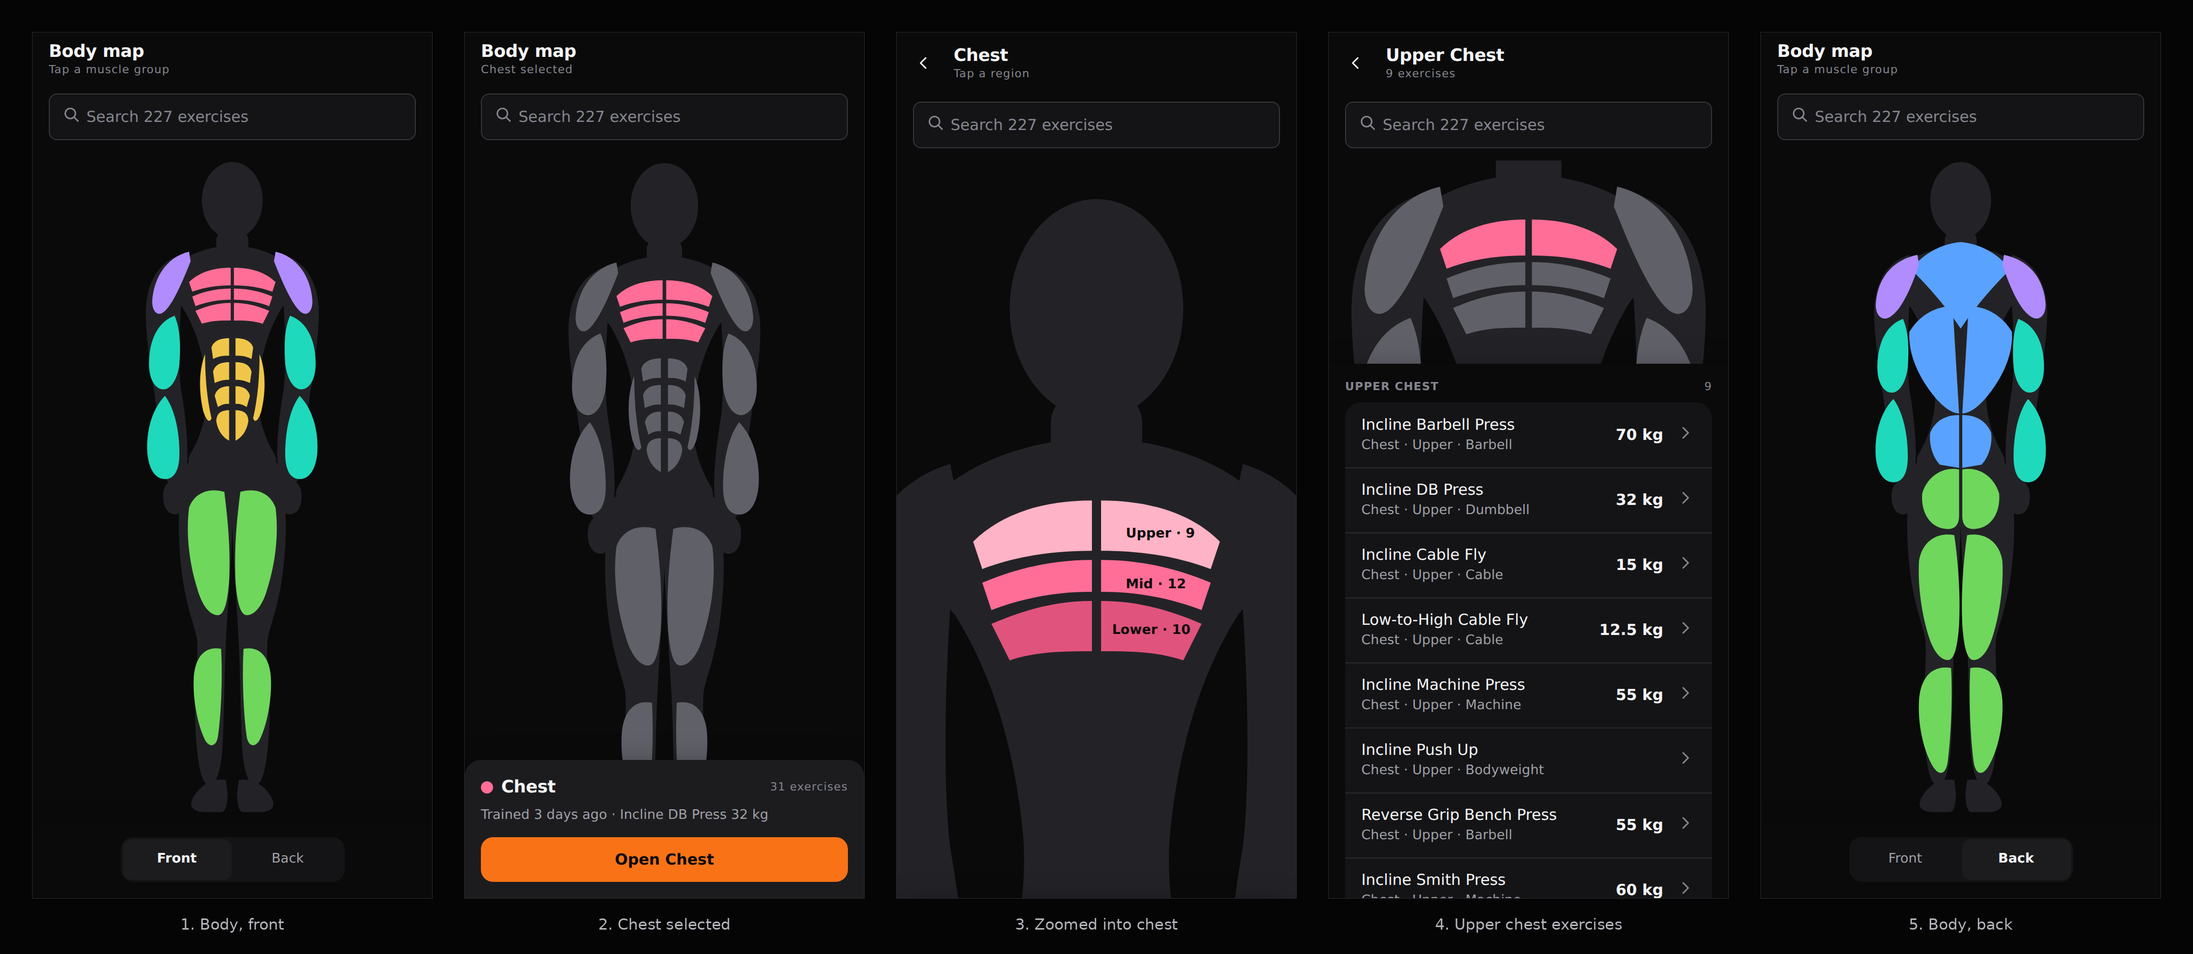
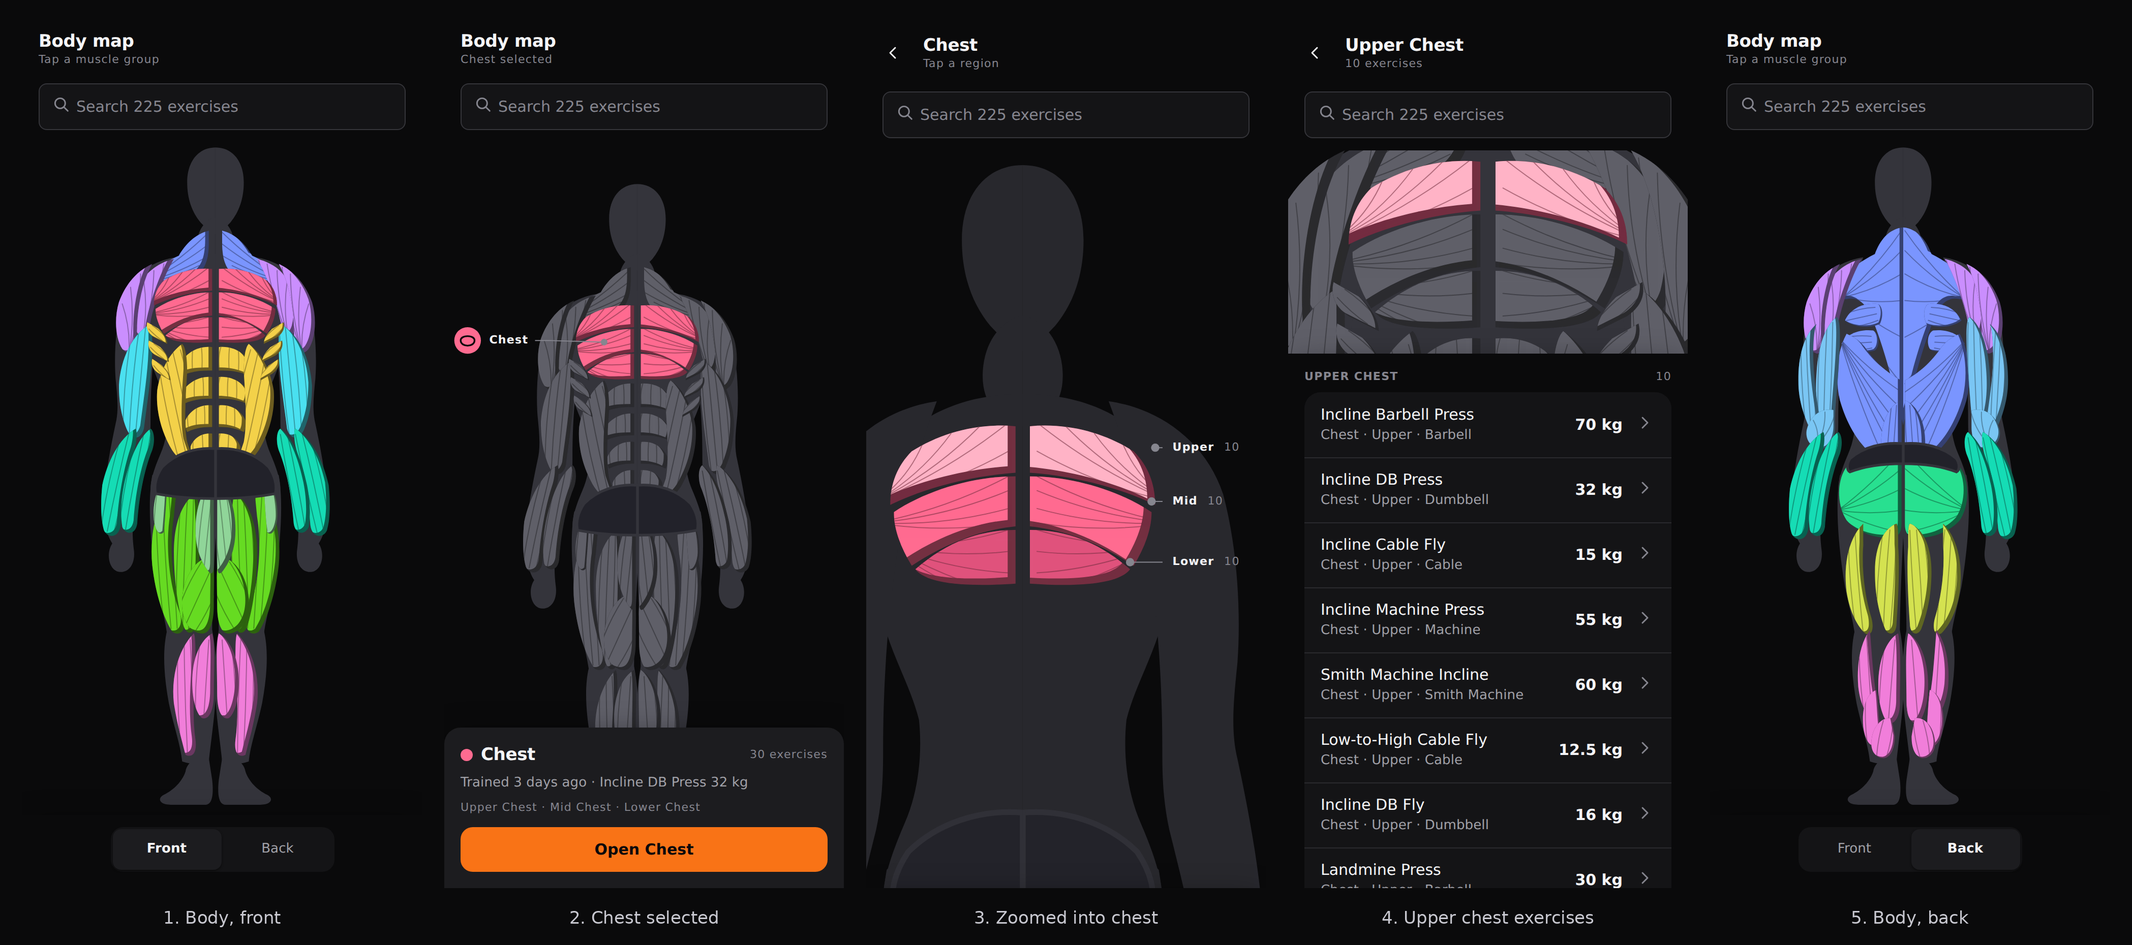
redesign: redraw body map as real anatomy
Ten refine cycles. Each muscle drawn twice, a dark ground in its own hue
plus the hue offset and clipped, so the residue is a rim lit from one
direction and the seam between two muscles is where their rims meet.
Fibres authored as direction rather than geometry. Twelve groups from the
app's own exercise table, twelve hues spent anatomically, lowest contrast
7.13:1. Zoom only for the five groups that have sub-regions.

Claude-Session: https://claude.ai/code/session_01YJKewqmQsqV5sHch9jXM4P

diff --git a/redesign/08-build/mockup-bodymap.html b/redesign/08-build/mockup-bodymap.html
@@ -87,6 +87,8 @@
 .map:not([data-zoom]):not([data-part]) .pec .mg__lit { fill: var(--anat-chest); }
 .map[data-selected]:not([data-zoom]) .mg--chest:not([data-on]) .pec .mg__lit { fill: var(--anat-muted); }
 .map[data-part="upper"] .pec:not([data-part="upper"]) .mg__lit { fill: var(--anat-muted); }
+.map[data-part="upper"] .pec:not([data-part="upper"]) .mg__gnd { fill: color-mix(in srgb, var(--anat-muted) 45%, #000); }
+.map[data-part="upper"] .pec:not([data-part="upper"]) .fib { stroke: color-mix(in srgb, var(--anat-muted) 45%, #000); }
 .pec .mg__lit { transition: fill var(--dur-slow) var(--ease); }
 .pec[data-part="mid"] .mg__lit { transition-delay: 100ms; }
 .pec[data-part="lower"] .mg__lit { transition-delay: 200ms; }
@@ -125,6 +127,7 @@
 
 /* The three part labels reuse the same convention, so zooming in
    introduces nothing new. */
+.map--strip .lab { opacity: 0 !important; }
 .zlabs { opacity: 0; transition: opacity var(--dur-slow) var(--ease); }
 .map[data-zoom] .zlabs { opacity: 1; transition-delay: var(--dur-slow); }
 .zlab__t { font-family: inherit; font-weight: var(--w-semibold); letter-spacing: var(--tr-11); fill: var(--text); dominant-baseline: middle; }
@@ -279,6 +282,7 @@
   /* One garment, both views: cut high on the flank so the lower and
      outer glute still reads on the back, low at the centre so the
      front is covered. */
+  var WAIST = 'M100 188 C112 187 124 190 132 197 C134 200 134 204 132 205 C122 201 111 200 100 200 Z';
   var SHORTS = 'M100 191 C112 190 124 194 132 202 C136 208 137 213 136 218 C126 220 114 221 100 221 Z';
 
   /* ---------------- FRONT ----------------
@@ -317,13 +321,13 @@
        armpit, and every fibre converging on the insertion. At rest
        the three read as one fan in one hue. */
     { g: 'chest', part: 'upper', cls: 'pec',
-      d: 'M102 83 C113 82 123 85 131 90 C135 94 137 99 137 105 C129 100 116 96 102 95 Z',
+      d: 'M102 83 C113 82 123 85 131 90 C135 94 137 99 137 105 C129 101 116 97 102 96 Z',
       fan: [141, 104, [[104, 82], [112, 83], [120, 85], [128, 88], [104, 90]]] },
     { g: 'chest', part: 'mid', cls: 'pec',
-      d: 'M102 98 C114 98 127 102 136 108 C136 113 134 118 131 122 C122 115 112 111 102 110 Z',
+      d: 'M102 97 C114 97 127 101 136 107 C136 112 134 117 131 122 C122 116 112 112 102 111 Z',
       fan: [141, 110, [[104, 97], [104, 101], [104, 106], [104, 110]]] },
     { g: 'chest', part: 'lower', cls: 'pec',
-      d: 'M102 113 C113 113 122 117 130 124 C126 129 115 131 102 130 Z',
+      d: 'M102 112 C113 112 122 116 130 123 C127 127 116 128 102 127 Z',
       fan: [138, 116, [[104, 112], [104, 118], [104, 124], [104, 130], [108, 132]]] },
 
     /* Abs: the rectus column split by the linea alba, three pairs of
@@ -332,22 +336,22 @@
        angling down and forward to the hip; and three finger-like
        serratus slips along the ribs under the armpit. The serratus is
        what makes the drawing read as anatomy. */
-    { g: 'abs', d: 'M104 136 C112 135 118 139 121 145 C121 148 121 150 120 152 C113 149 108 149 104 149 Z',
-      ax: [112, 135, 112, 153, 4, 14] },
-    { g: 'abs', d: 'M104 153 C111 152 117 156 120 162 C120 165 120 167 119 169 C112 166 108 166 104 166 Z',
-      ax: [111, 152, 111, 170, 4, 13] },
-    { g: 'abs', d: 'M104 170 C111 169 116 173 118 179 C118 182 118 184 117 186 C111 183 108 183 104 183 Z',
-      ax: [110, 169, 110, 187, 4, 12] },
-    { g: 'abs', d: 'M104 187 C110 186 114 190 115 194 C115 199 113 205 110 209 C107 211 104 210 104 206 Z',
-      ax: [109, 186, 108, 209, 3, 9] },
-    { g: 'abs', d: 'M122 132 C129 137 135 146 137 158 C138 170 134 183 128 192 C124 198 118 202 114 203 C115 198 117 193 119 187 C121 177 121 162 121 146 C121 138 121 134 122 132 Z',
-      ax: [130, 137, 116, 199, 4, 14] },
-    { g: 'abs', d: 'M141 117 L130 123 C131 126 135 126 138 124 C141 122 142 119 141 117 Z',
-      ax: [140, 119, 132, 124, 2, 4] },
-    { g: 'abs', d: 'M140 128 L129 134 C130 137 134 137 137 135 C140 133 141 130 140 128 Z',
-      ax: [139, 130, 131, 135, 2, 4] },
-    { g: 'abs', d: 'M138 139 L128 145 C129 148 132 148 135 146 C138 144 139 141 138 139 Z',
-      ax: [137, 141, 130, 146, 2, 4] },
+    { g: 'abs', d: 'M102 130 C111 129 118 134 121 140 C121 143 121 145 120 147 C113 144 108 144 102 144 Z',
+      ax: [111, 129, 111, 148, 4, 15] },
+    { g: 'abs', d: 'M102 148 C110 147 117 152 120 157 C120 160 120 162 119 164 C112 161 107 161 102 161 Z',
+      ax: [110, 147, 110, 165, 4, 14] },
+    { g: 'abs', d: 'M102 165 C110 164 116 169 118 174 C118 177 118 179 117 181 C111 178 106 178 102 178 Z',
+      ax: [109, 164, 109, 182, 4, 13] },
+    { g: 'abs', d: 'M102 182 C109 181 114 186 115 190 C115 195 113 200 110 203 C107 205 102 204 102 200 Z',
+      ax: [108, 181, 107, 203, 3, 10] },
+    { g: 'abs', d: 'M120 128 C127 133 133 143 135 156 C136 169 132 182 126 192 C122 198 116 202 112 203 C113 198 115 193 117 187 C119 177 118 160 117 145 C117 136 118 130 120 128 Z',
+      ax: [128, 133, 114, 200, 4, 14] },
+    { g: 'abs', sm: true, d: 'M141 115 C142 119 140 122 137 124 L129 128 C129 125 131 122 134 119 Z',
+      ax: [139, 118, 131, 125, 2, 3] },
+    { g: 'abs', sm: true, d: 'M140 126 C141 130 139 133 136 135 L128 139 C128 136 130 133 133 130 Z',
+      ax: [138, 129, 130, 136, 2, 3] },
+    { g: 'abs', sm: true, d: 'M138 137 C139 141 137 144 134 146 L127 150 C127 147 129 144 132 141 Z',
+      ax: [136, 140, 129, 147, 2, 3] },
 
     /* Quads: the vastus lateralis sweeping the whole outer thigh, the
        rectus femoris down the centre, the vastus medialis a teardrop
@@ -363,7 +367,7 @@
        and the tensor fasciae latae over the outer hip. */
     { g: 'adduc', d: 'M101 212 C108 215 112 226 112 240 C112 252 108 260 104 265 C102 267 101 266 101 260 Z',
       ax: [102, 216, 107, 264, 3, 8] },
-    { g: 'adduc', d: 'M129 208 C135 213 138 223 137 234 C136 241 133 244 131 241 C130 230 129 216 129 208 Z',
+    { g: 'adduc', sm: true, d: 'M129 208 C135 213 138 223 137 234 C136 241 133 244 131 241 C130 230 129 216 129 208 Z',
       ax: [131, 211, 134, 240, 2, 6] },
 
     /* Calves from the front: the tibialis anterior along the outer
@@ -384,13 +388,13 @@
        infraspinatus and teres pair on the scapula; the latissimus V,
        wide under the armpit and sweeping down and in to the lower
        back; and the erector spinae columns flanking the spine. */
-    { g: 'back', d: 'M100 58 C109 59 114 66 117 74 C125 78 134 84 141 93 C143 98 140 102 133 101 C126 99 119 101 115 108 C111 118 106 137 104 155 C103 165 101 171 100 177 Z',
+    { g: 'back', d: 'M100 58 C109 59 114 66 117 74 C125 78 134 84 141 93 C143 98 140 102 133 101 C127 100 122 104 119 112 C114 124 108 143 105 158 C103 167 101 172 100 177 Z',
       fan: [136, 100, [[101, 60], [101, 72], [101, 86], [101, 102], [101, 124], [101, 152], [101, 174]]] },
-    { g: 'back', d: 'M115 104 C124 103 132 107 135 114 C130 118 120 119 114 116 C112 112 112 106 115 104 Z',
+    { g: 'back', sm: true, d: 'M115 104 C124 103 132 107 135 114 C130 118 120 119 114 116 C112 112 112 106 115 104 Z',
       ax: [116, 110, 134, 114, 3, 8] },
-    { g: 'back', d: 'M118 120 C126 119 134 122 137 128 C133 132 124 134 117 132 C114 130 114 122 118 120 Z',
+    { g: 'back', sm: true, d: 'M118 120 C126 119 134 122 137 128 C133 132 124 134 117 132 C114 130 114 122 118 120 Z',
       ax: [119, 127, 136, 128, 3, 7] },
-    { g: 'back', d: 'M134 122 C140 133 141 149 138 162 C134 176 127 188 118 195 C112 200 106 203 101 204 L101 156 C108 152 116 144 122 134 C127 126 132 124 134 122 Z',
+    { g: 'back', d: 'M134 122 C140 133 141 149 138 162 C134 176 127 188 118 195 C112 200 106 203 101 204 L101 150 C109 146 117 139 123 130 C128 124 132 123 134 122 Z',
       fan: [138, 125, [[101, 202], [101, 191], [101, 179], [101, 167], [101, 157], [111, 198]]] },
     { g: 'back', d: 'M101 162 C107 164 112 172 113 183 C114 194 112 203 109 208 C106 211 101 210 101 205 Z',
       ax: [104, 165, 107, 208, 3, 6] },
@@ -407,7 +411,7 @@
       ax: [144, 115, 146, 175, 4, 10] },
     { g: 'triceps', d: 'M152 116 C160 123 163 136 163 150 C163 161 160 170 157 177 C155 182 149 182 150 174 C152 161 154 147 154 135 C154 123 153 118 152 116 Z',
       ax: [157, 120, 154, 178, 4, 9] },
-    { g: 'triceps', d: 'M141 168 C149 166 156 171 158 180 C159 187 154 191 149 191 C144 191 141 185 141 178 Z',
+    { g: 'triceps', sm: true, d: 'M141 168 C149 166 156 171 158 180 C159 187 154 191 149 191 C144 191 141 185 141 178 Z',
       fan: [152, 189, [[141, 170], [147, 169], [154, 174]]] },
 
     /* Forearm extensors. */
@@ -418,14 +422,14 @@
 
     /* Glutes: a rounded mass, wider than it is tall, fibres running
        down and out from the sacrum to the femur. */
-    { g: 'glutes', d: 'M101 184 C113 182 126 187 134 196 C140 204 140 219 134 228 C127 237 114 242 105 240 C102 239 101 236 101 232 Z',
-      fan: [139, 222, [[101, 186], [101, 197], [101, 209], [101, 222], [103, 236]]] },
+    { g: 'glutes', d: 'M101 190 C113 188 126 193 134 202 C140 210 140 225 134 234 C127 242 114 246 105 244 C102 243 101 240 101 236 Z',
+      fan: [139, 228, [[101, 192], [101, 203], [101, 215], [101, 228], [103, 241]]] },
 
     /* Hamstrings: the outer and the inner group, hip to knee. */
-    { g: 'hams', d: 'M124 230 C133 239 136 256 134 273 C132 287 127 296 123 300 C120 302 117 299 119 291 C123 277 125 259 124 243 C124 235 124 231 124 230 Z',
-      ax: [127, 234, 122, 300, 4, 12] },
-    { g: 'hams', d: 'M104 230 C112 233 117 245 117 261 C117 277 114 289 111 297 C109 302 104 301 104 294 C103 279 102 258 103 245 C103 237 103 231 104 230 Z',
-      ax: [106, 234, 110, 300, 4, 12] },
+    { g: 'hams', d: 'M124 236 C133 245 136 261 134 277 C132 290 127 298 123 302 C120 304 117 301 119 293 C123 280 125 264 124 249 C124 241 124 237 124 236 Z',
+      ax: [127, 240, 122, 302, 4, 12] },
+    { g: 'hams', d: 'M104 236 C112 239 117 250 117 265 C117 280 114 291 111 299 C109 304 104 303 104 296 C103 282 102 262 103 250 C103 242 103 237 104 236 Z',
+      ax: [106, 240, 110, 302, 4, 12] },
 
     /* Calves: the two heads of the gastrocnemius forming the diamond,
        the soleus below them on the outside, and the Achilles they all
@@ -434,9 +438,9 @@
       ax: [105, 306, 109, 356, 3, 11] },
     { g: 'calves', d: 'M120 300 C126 308 128 321 127 334 C126 343 123 350 120 351 C117 352 115 347 116 340 C118 329 119 312 120 300 Z',
       ax: [122, 304, 119, 350, 3, 9] },
-    { g: 'calves', d: 'M116 336 C122 338 125 347 124 358 C123 366 120 370 117 370 C114 370 113 366 114 359 C115 350 115 342 116 336 Z',
+    { g: 'calves', sm: true, d: 'M116 336 C122 338 125 347 124 358 C123 366 120 370 117 370 C114 370 113 366 114 359 C115 350 115 342 116 336 Z',
       ax: [119, 339, 118, 369, 2, 7] },
-    { g: 'calves', d: 'M107 353 C112 352 118 357 119 366 C120 373 116 377 112 377 C108 377 105 372 105 364 Z',
+    { g: 'calves', sm: true, d: 'M107 353 C112 352 118 357 119 366 C120 373 116 377 112 377 C108 377 105 372 105 364 Z',
       ax: [109, 355, 113, 376, 2, 6] }
   ];
 
@@ -519,7 +523,10 @@
       ['abs',       100, 138, 32, 58],
       ['quads',     114, 220, 30, 54], ['quads', 102, 262, 30, 44],
       ['adduc',     100, 216, 29, 44],
-      ['calves',    100, 304, 30, 72]
+      ['calves',    100, 304, 30, 72],
+      /* the upper trapezius is the only Back on the front view, so its
+         target is declared last and takes the neck-to-shoulder slope */
+      ['back',      104,  52, 31, 34]
     ],
     back: [
       ['back',      100,  58, 38, 148],
@@ -601,12 +608,13 @@
     var cp = el('clipPath', { id: clip });
     cp.appendChild(el('path', { d: m.d }));
     defs.appendChild(cp);
-    [[null, -2.2], [MIRROR, 2.2]].forEach(function (s) {
+    var off = m.sm ? 0.9 : 2.2, offY = m.sm ? 0.8 : 1.8;
+    [[null, -off], [MIRROR, off]].forEach(function (s) {
       var side = el('g', { transform: s[0] });
       side.appendChild(el('path', { d: m.d, class: 'mg__gnd' }));
       var inner = el('g', { 'clip-path': 'url(#' + clip + ')' });
       inner.appendChild(el('path', { d: m.d, class: 'mg__lit',
-        transform: 'translate(' + s[1] + ' -1.8)' }));
+        transform: 'translate(' + s[1] + ' ' + (-offY) + ')' }));
       fibres(m).forEach(function (d) { inner.appendChild(el('path', { d: d, class: 'fib' })); });
       side.appendChild(inner);
       var wrap = el('g', { class: cls });
@@ -661,7 +669,7 @@
   buildView(document.getElementById('f-groups'), FRONT, HITS.front);
   buildView(document.getElementById('b-groups'), BACK, HITS.back);
   plain(document.getElementById('f-wear'), [SHORTS], 'shorts');
-  plain(document.getElementById('b-wear'), [SHORTS], 'shorts');
+  plain(document.getElementById('b-wear'), [WAIST], 'shorts');
 
   /* Labels: disc, pictogram, name, and a hairline leader to a dot on
      the muscle. Left-hand labels read disc-then-name toward the body;
@@ -788,33 +796,33 @@
      frame, leaving the right gutter for the part labels. */
   function camera() {
     return S.stage === 'zoom'
-      ? 'translate(100 209) scale(2.6) translate(-100 -109)'
+      ? 'translate(' + ZCAM.x + ' ' + ZCAM.y + ') scale(' + ZCAM.k + ') translate(-' + ZCAM.ox + ' -' + ZCAM.oy + ')'
       : 'translate(0 0) scale(1)';
   }
 
-  var PART_N = { upper: 10, mid: 10, lower: 10 };
+  /* The zoomed camera and the three part labels are one piece of
+     geometry: the camera is fixed, so the point each leader lands on
+     is the band's own outer edge put through the same transform. That
+     keeps the three labels in a true column instead of wherever a
+     measured bounding box happens to fall. */
+  var ZCAM = { x: 78, y: 209, k: 2.15, ox: 100, oy: 109 };
+  var ZPART = [['Upper', 10, 137, 89], ['Mid', 10, 136, 104], ['Lower', 10, 130, 121]];
+  var ZCOL = 168;
+
   function placeZoomLabels() {
     zlabs.textContent = '';
     if (S.stage !== 'zoom') return;
-    var box = svg.getBoundingClientRect(), vb = svg.viewBox.baseVal;
-    var s = Math.min(box.width / vb.width, box.height / vb.height);
-    var ox = box.width / 2 - (vb.x + vb.width / 2) * s;
-    var oy = box.height / 2 - (vb.y + vb.height / 2) * s;
-    ['upper', 'mid', 'lower'].forEach(function (part) {
-      var band = document.querySelector('#view-front .pec[data-part="' + part + '"]');
-      if (!band) return;
-      var r = band.getBoundingClientRect();
-      var ax = ((r.left + r.width * 0.93) - box.left - ox) / s;
-      var ay = ((r.top + r.height / 2) - box.top - oy) / s;
-      var col = Math.max(vb.x + vb.width - 64, ax + 16);
+    ZPART.forEach(function (P) {
+      var ax = ZCAM.x + (P[2] - ZCAM.ox) * ZCAM.k;
+      var ay = ZCAM.y + (P[3] - ZCAM.oy) * ZCAM.k;
       var g = el('g', { class: 'lab', style: 'opacity:1' });
       g.appendChild(el('path', { class: 'lab__line',
-        d: 'M' + n2(ax) + ' ' + n2(ay) + ' L' + n2(col - 6) + ' ' + n2(ay) }));
+        d: 'M' + n2(ax) + ' ' + n2(ay) + ' L' + n2(ZCOL - 6) + ' ' + n2(ay) }));
       g.appendChild(el('circle', { class: 'lab__dot', cx: n2(ax), cy: n2(ay), r: 2.5 }));
-      var t = el('text', { class: 'zlab__t', x: n2(col), y: n2(ay), 'text-anchor': 'start' });
-      t.textContent = part.charAt(0).toUpperCase() + part.slice(1);
+      var t = el('text', { class: 'zlab__t', x: ZCOL, y: n2(ay), 'text-anchor': 'start' });
+      t.textContent = P[0];
       var n = el('tspan', { class: 'zlab__n', dx: 6 });
-      n.textContent = PART_N[part];
+      n.textContent = P[1];
       t.appendChild(n);
       g.appendChild(t);
       zlabs.appendChild(g);
@@ -860,7 +868,7 @@
     list.hidden = S.stage !== 'list';
     map.classList.toggle('map--strip', S.stage === 'list');
     if (S.stage === 'list') map.setAttribute('data-part', 'upper'); else map.removeAttribute('data-part');
-    svg.setAttribute('viewBox', S.stage === 'list' ? '58 76 84 68' : '-16 8 240 402');
+    svg.setAttribute('viewBox', S.stage === 'list' ? '62 80 76 54' : '-16 8 240 402');
     if (S.stage === 'list') renderList();
     requestAnimationFrame(function () { sizeType(); placeZoomLabels(); });
   }

diff --git a/redesign/08-build/tokens.css b/redesign/08-build/tokens.css
@@ -48,7 +48,16 @@
   --surface-raised: #1C1C1F;/* sheet, popover, L* 10.6 */
   --surface-sunken: #050506;/* inset wells, keypad ground */
   --hairline: #2A2A2E;     /* separators, 1px */
-  --border: #35353A;       /* control borders, 3:1 against surface */
+  /* Control borders. The shipped value was #35353A, which the pair table
+     recorded as 3.06:1 against --surface; measured, it is 1.51 -- and
+     1.39 against a sheet. Every control whose only boundary is that
+     border (the text input, the composer, the switch's off track, the
+     checkbox mark, the set mark, the value targets) therefore failed
+     WCAG 1.4.11 in the primary theme, while the light theme passed it.
+     #6A6A74 clears 3:1 on all four grounds: 3.81 sunken, 3.70 bg,
+     3.44 surface, 3.18 raised, and still carries --text at 4.91 for the
+     one control that uses it as a pressed fill. */
+  --border: #6A6A74;
 
   /* ---- Fills. The three tokens that make the system theme-reversible.
      In dark, "a fill that stands out on a card" and "a surface that sits
@@ -218,9 +227,10 @@
   --border: #767681;       /* 3.30 sunken, 3.71 bg, 4.12 surface, 4.49 raised */
 
   /* Fills run the other way from elevation here: down, not up. */
-  --fill: #DDDDE8;         /* 4.12 L* below bg, 8.21 below surface */
+  --fill: #D8D8E5;         /* 5.84 L* below bg, 9.93 below surface;
+                              dark's fill sits 7.62 above bg, 4.00 above surface */
   --fill-press: #CFCFDD;
-  --track: #DDDDE8;
+  --track: #D8D8E5;
 
   --text: #0A0A0B;
   --text-secondary: #55555E;
@@ -231,24 +241,26 @@
   /* The accent as ink is a step deeper than the shipped #B03A0A so it
      still clears 4.5 on its own tinted ground. */
   --accent: #C2410C;
-  --accent-text: #A63708;
+  --accent-text: #9E3408;
   --accent-deep: #9A3412;
-  --accent-quiet: #FBD7C4;
+  --accent-quiet: #FAD1B9;
 
-  /* The quiet tints sit at L* 88.5, four steps below the page ground, so
+  /* The quiet tints sit at L* 85.5-86.5, six L* below the page ground -- the same tone step dark's quiet tints take above their ground (6.6 to 11.1), so
      a banner, a selected row or a chat bubble is a surface rather than a
      rumour. The shipped tints sat at 94-96, level with the ground: an
-     accent-quiet bubble measured 1.00:1 against the page behind it. The
+     accent-quiet chat bubble measured 1.00:1 against the page behind it.
+     Measured, ink on its own tint: accent 5.05, success 4.61, error 4.73,
+     warning 4.95, info 5.54. The
      semantic inks deepen to match, so each still clears 4.5 on its tint. */
   --success: #0F6B41;
-  --success-quiet: #BBE9CF;
+  --success-quiet: #AFE4C7;
   --error: #B31F1F;
   --error-solid: #C42525;
-  --error-quiet: #F9D7D7;
+  --error-quiet: #F8CFCF;
   --warning: #7A4F00;
-  --warning-quiet: #F9DBA2;
+  --warning-quiet: #F7D28F;
   --info: #17538F;
-  --info-quiet: #CEE1F5;
+  --info-quiet: #C5DBF3;
 
   --shadow-raised: 0 1px 2px rgba(0, 0, 0, 0.14);
   --shadow-overlay: 0 12px 32px rgba(0, 0, 0, 0.20);
@@ -302,9 +314,10 @@
     --border: #767681;       /* 3.30 sunken, 3.71 bg, 4.12 surface, 4.49 raised */
 
     /* Fills run the other way from elevation here: down, not up. */
-    --fill: #DDDDE8;         /* 4.12 L* below bg, 8.21 below surface */
+    --fill: #D8D8E5;         /* 5.84 L* below bg, 9.93 below surface;
+                                dark's fill sits 7.62 above bg, 4.00 above surface */
     --fill-press: #CFCFDD;
-    --track: #DDDDE8;
+    --track: #D8D8E5;
 
     --text: #0A0A0B;
     --text-secondary: #55555E;
@@ -315,24 +328,26 @@
     /* The accent as ink is a step deeper than the shipped #B03A0A so it
        still clears 4.5 on its own tinted ground. */
     --accent: #C2410C;
-    --accent-text: #A63708;
+    --accent-text: #9E3408;
     --accent-deep: #9A3412;
-    --accent-quiet: #FBD7C4;
+    --accent-quiet: #FAD1B9;
 
-    /* The quiet tints sit at L* 88.5, four steps below the page ground, so
+    /* The quiet tints sit at L* 85.5-86.5, six L* below the page ground -- the same tone step dark's quiet tints take above their ground (6.6 to 11.1), so
        a banner, a selected row or a chat bubble is a surface rather than a
        rumour. The shipped tints sat at 94-96, level with the ground: an
-       accent-quiet bubble measured 1.00:1 against the page behind it. The
+       accent-quiet chat bubble measured 1.00:1 against the page behind it.
+       Measured, ink on its own tint: accent 5.05, success 4.61, error 4.73,
+       warning 4.95, info 5.54. The
        semantic inks deepen to match, so each still clears 4.5 on its tint. */
     --success: #0F6B41;
-    --success-quiet: #BBE9CF;
+    --success-quiet: #AFE4C7;
     --error: #B31F1F;
     --error-solid: #C42525;
-    --error-quiet: #F9D7D7;
+    --error-quiet: #F8CFCF;
     --warning: #7A4F00;
-    --warning-quiet: #F9DBA2;
+    --warning-quiet: #F7D28F;
     --info: #17538F;
-    --info-quiet: #CEE1F5;
+    --info-quiet: #C5DBF3;
 
     --shadow-raised: 0 1px 2px rgba(0, 0, 0, 0.14);
     --shadow-overlay: 0 12px 32px rgba(0, 0, 0, 0.20);
